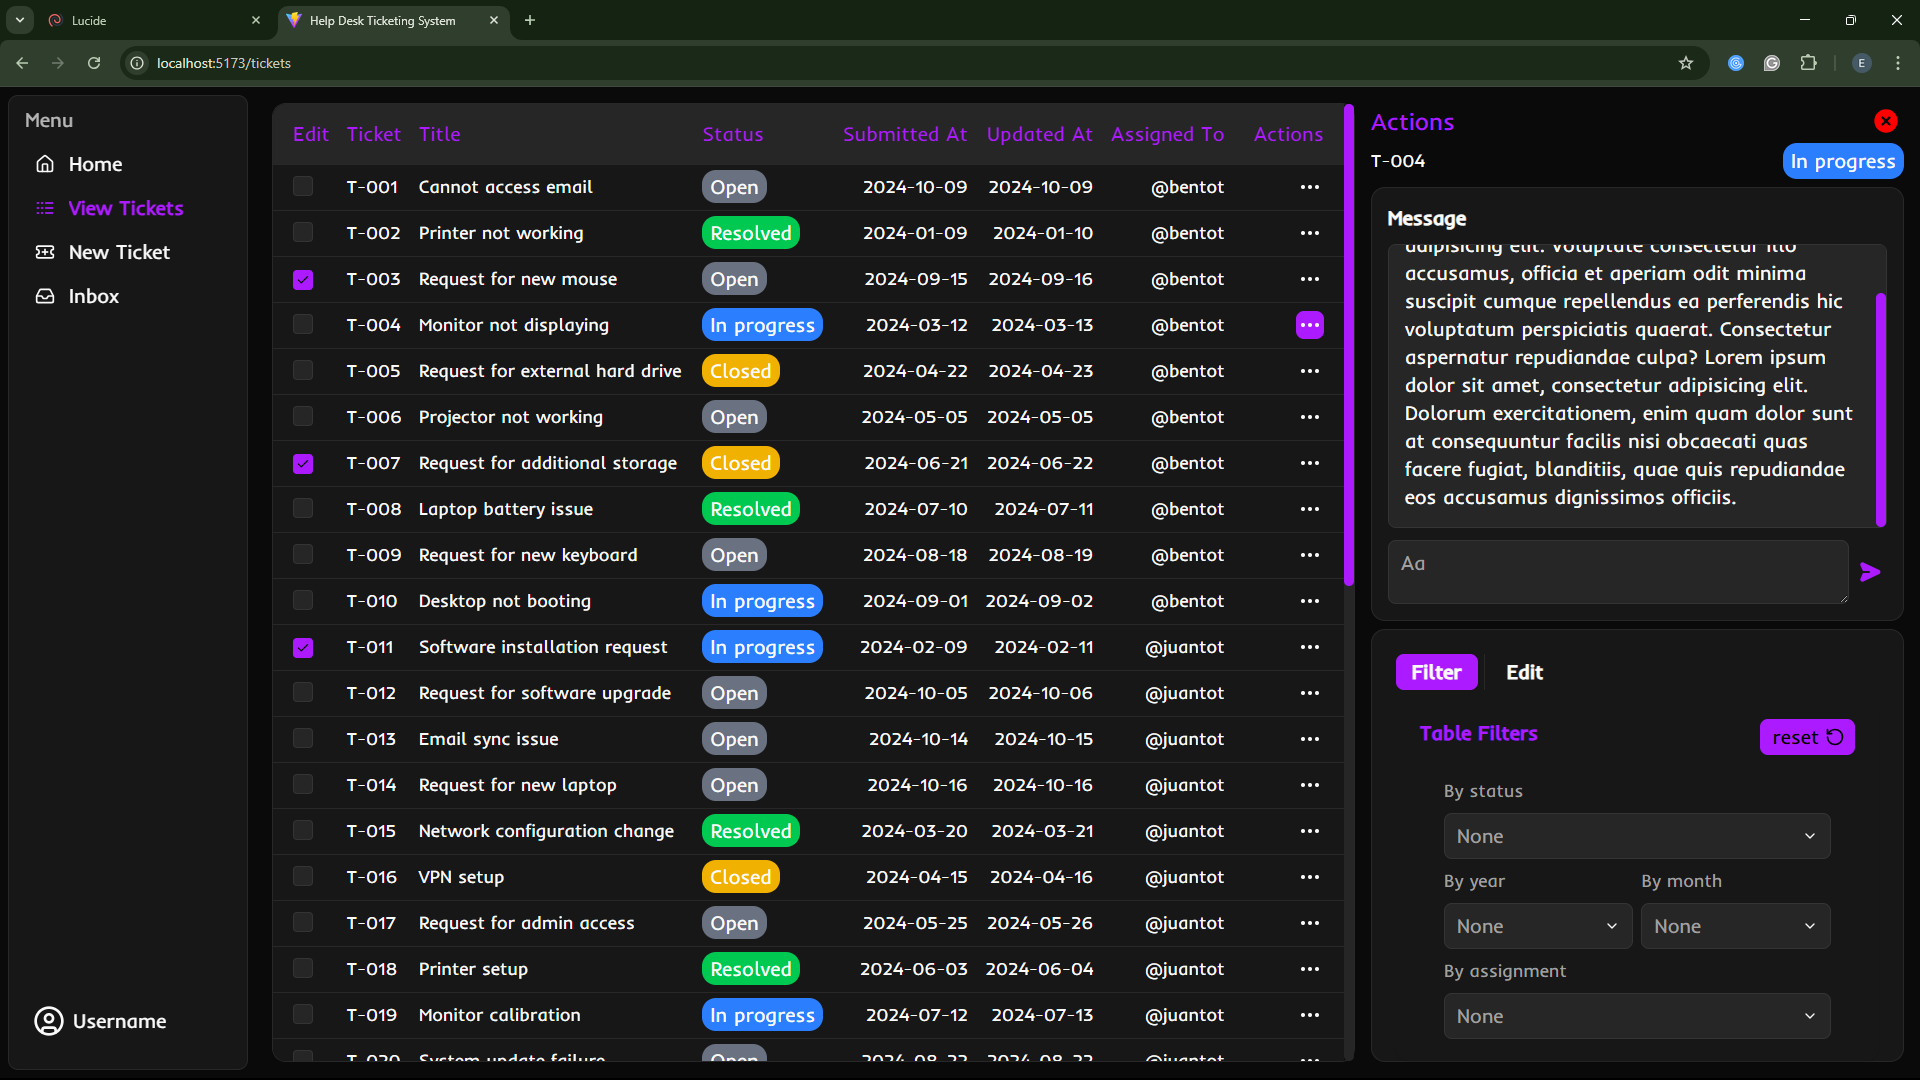
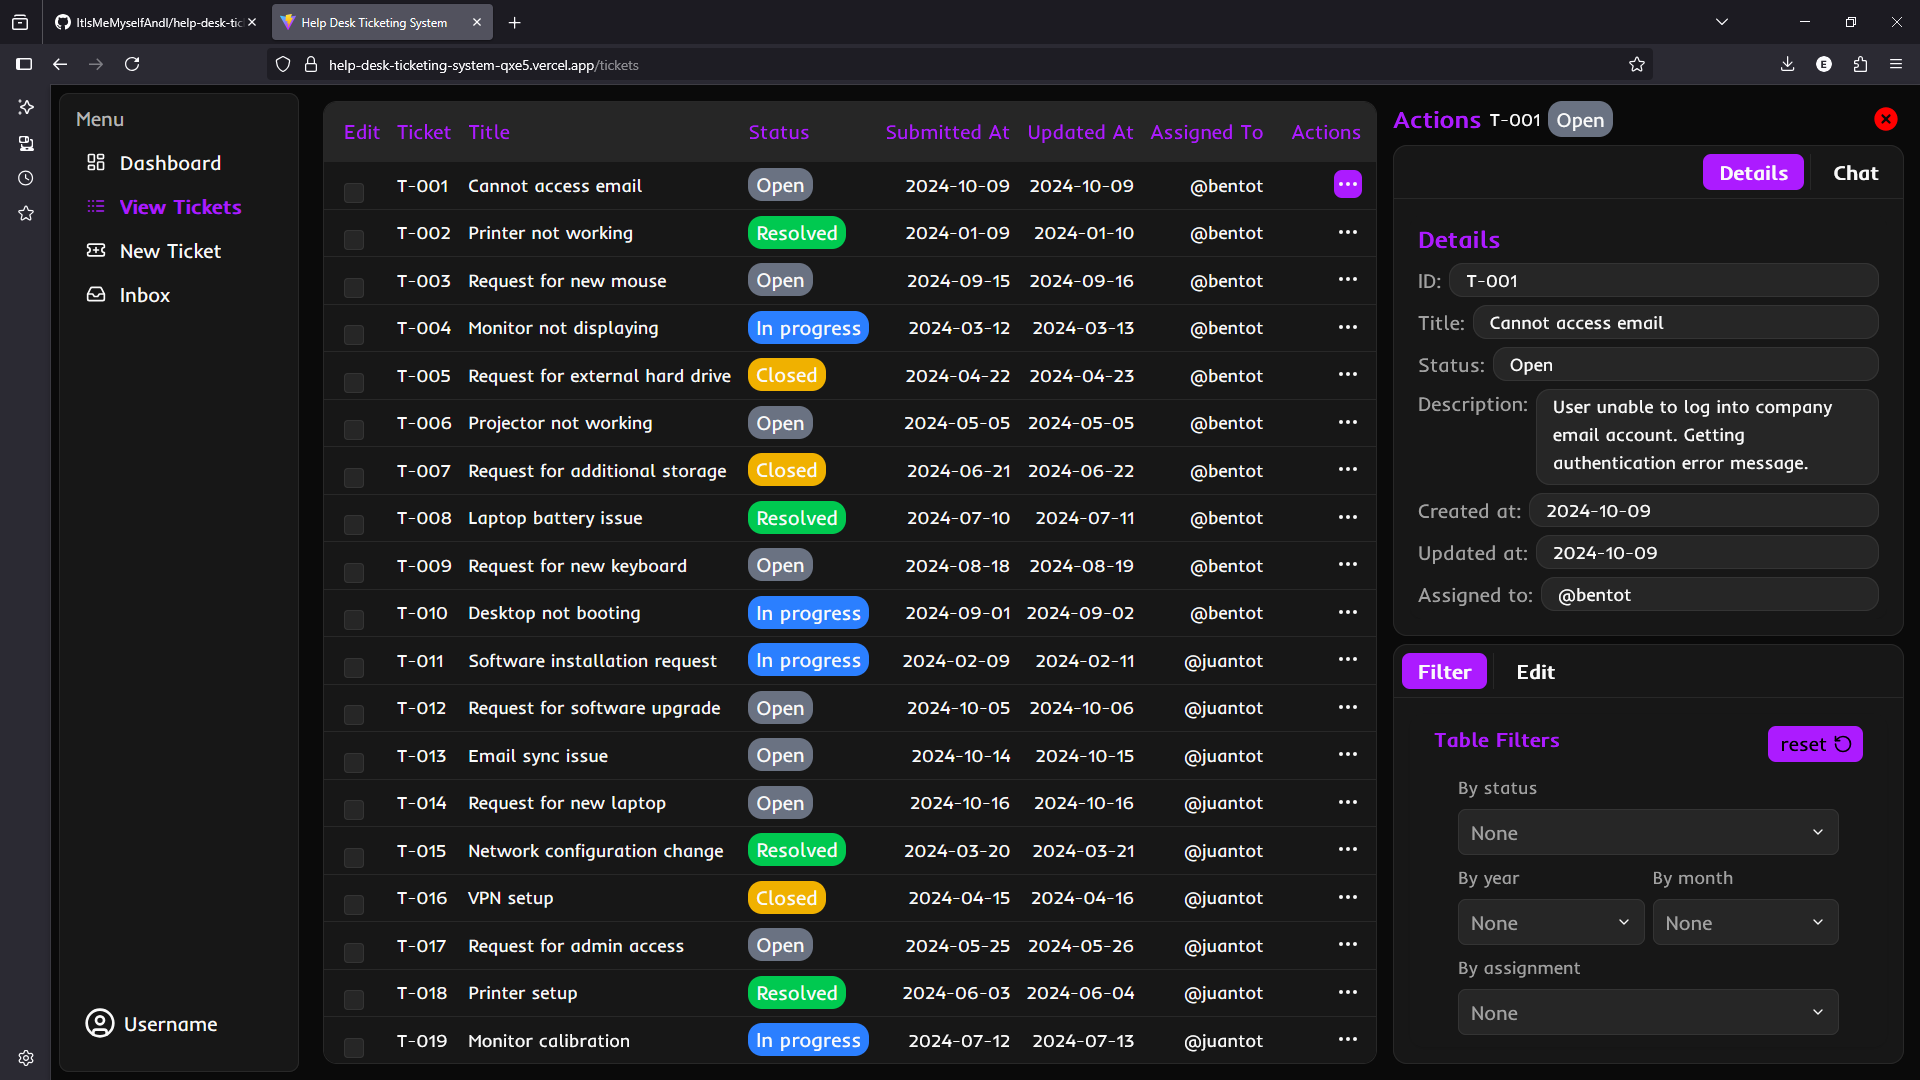
fix: unused declaration during deployment
Updated ss and README
Removed unused declaration

diff --git a/src/components/Action.tsx b/src/components/Action.tsx
@@ -1,4 +1,4 @@
-import { useContext, useState } from "react";
+import { useState } from "react";
 import { Card, CardAction, CardContent, CardHeader, CardTitle } from "@/components/ui/card";
 import { selectStatusBGColor } from "@/lib/utils";
 import { ImageButton } from "@/components/ImageButton";
@@ -7,7 +7,6 @@ import { FilterProvider } from "@/contexts/FilterContext";
 import { Separator } from "@/components/ui/separator";
 import { TableFilter } from "@/components/TableFIlter";
 import { QuickEdit } from "@/components/QuickEdit";
-import type { TicketType } from "@/types";
 import XCloseSVG from "@/assets/close-circle-svgrepo-com.svg";
 import { Chat } from "@/components/Chat";
 import { TicketDetails } from "./TicketDetails";

diff --git a/README.md b/README.md
@@ -80,10 +80,10 @@ A web-based support ticketing system that allows clients to report issues and en
 
   ![View-tickets-no-action](./screenshots/client-view_tickets-interface-1.png)
 
-- ##### b. Open action section [message, filter]
+- ##### b. Open action section [details, filter]
 
   ![View-tickets-filter](./screenshots/client-view_tickets-interface-2.png)
 
-- ##### c. Closed action section [message, edit]
+- ##### c. Closed action section [chat, edit]
 
   ![View-tickets-edit](./screenshots/client-view_tickets-interface-3.png)
